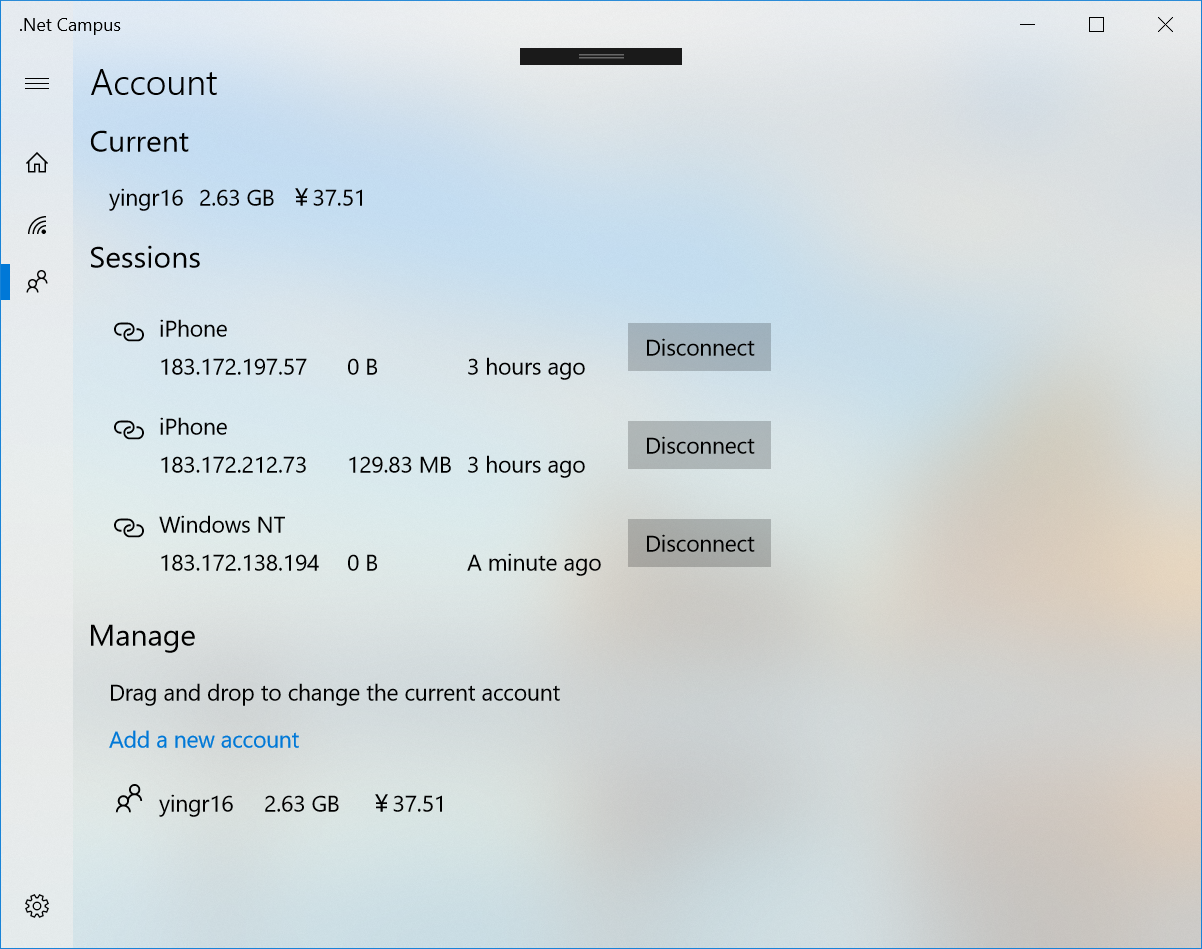
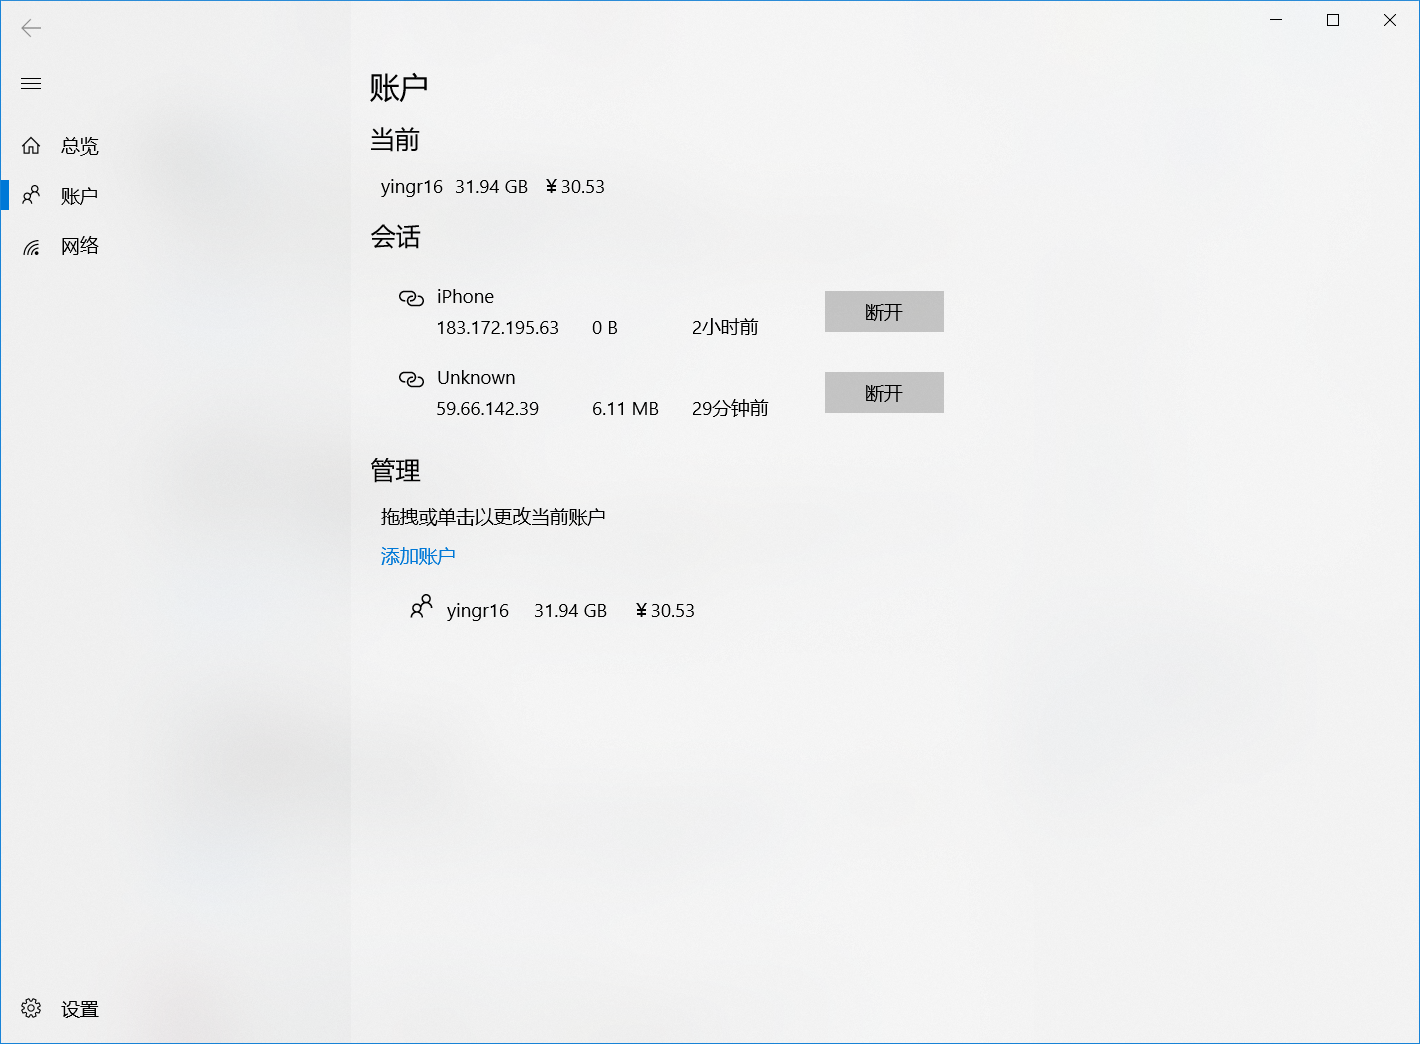
Add new features & update screenshots

diff --git a/README.md b/README.md
@@ -6,39 +6,53 @@
 
 ## Features
 
-- Network usage and balance detail
+### In App
 
-- Daily usage chart
+* Wired auth support
 
-- Auto-login
+* Network usage and balance detail
 
-- Multi-account support
+* Daily usage chart
 
-- Session disconnection
+* Multi-account support
+
+* Session disconnection
+
+### UWP Specials
+
+* Auto-login with toast notifications
+
+* Live tile showing current account status
+
+* Low balance alert with toast notifications
 
 ## App Pages
 
-- A general page to show the current usage, network, account and number of sessions at the very first glance. A chart indicating the daily usage trend is also available.
+* A general page to show the current usage, network, account and number of sessions at the very first glance. A chart indicating the daily usage trend is also available.
 
-- This app provides a single page for users to enable auto-login for their chosen networks. Campus networks in the Favorites would be automatically logged in when connected.
+* There is a page for account management where users can have a closer look at those online sessions and choose to disconnect any. This page also enables users to add more than one accounts and switch among them whenever they want.
 
-- There is also a page for account management where users can have a closer look at those online sessions and choose to disconnect any. This page also enables users to add more than one accounts and switch among them whenever they want.
+* This app also provides a single page for users to enable auto-login for their chosen networks. Campus networks in the Favorites would be automatically logged in when connected.
 
 ## Screenshots
 
-![General Page](Screenshots/GeneralPage.png) | ![Wi-Fi Page](Screenshots/Wi-FiPage.png) | ![Account Page](Screenshots/AccountPage.png)
-:-------------------------------------------:|:----------------------------------------:|:-------------------------------------------:
-General Page                                 |  Wi-Fi Page                              |Account Page
+| ![General Page](Screenshots/GeneralPage.png) | ![Account Page](Screenshots/AccountPage.png) | ![WiFi Page](Screenshots/WiFiPage.png) |
+| :------------------------------------------: | :------------------------------------------: | :------------------------------------: |
+|                 General Page                 |                 Account Page                 |               WiFi Page                |
 
 ## Requirements
 
 ### System
 
-- Windows 10 Fall Creators Update Build 16299
+* Windows 10, version 1803 build 17134
+
+* Windows 10 Fall Creators Update build 16299
 
 ### Development
 
-- Visual Studio 2017
+* Visual Studio 2017
+
+* Windows SDK 17134
 
 ## Contributing
 
